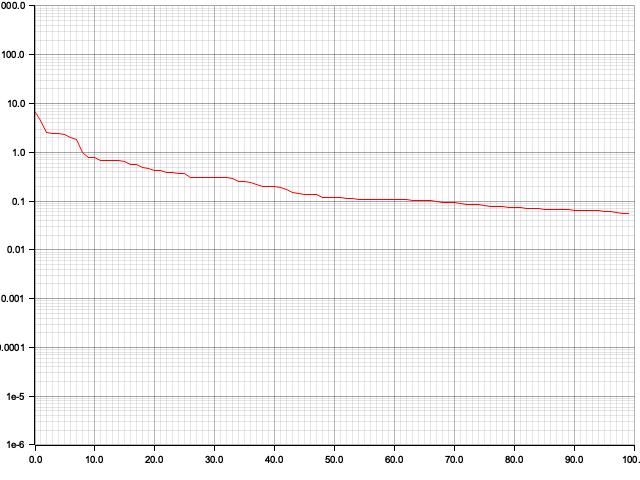
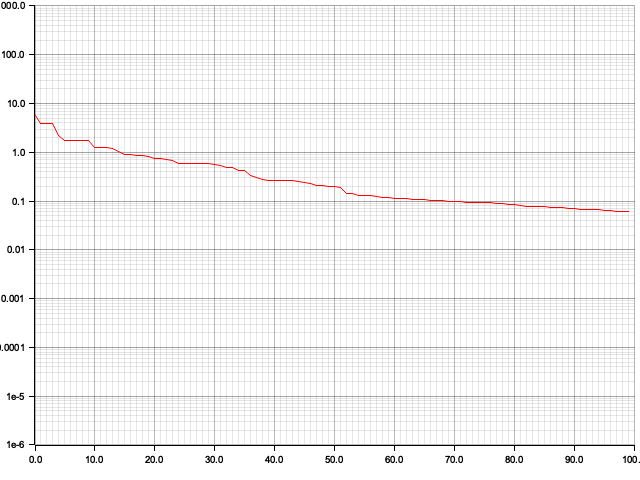
add: OptimizationProblem struct, refactor

diff --git a/src/pso.rs b/src/pso.rs
@@ -1,28 +1,30 @@
 use crate::particle;
 use crate::utils;
 
+use crate::function;
+use function::OptimizationProblem;
 use indicatif::{ProgressBar, ProgressStyle};
 use nalgebra::DVector;
 use particle::ParticleTrait;
 use std::fmt;
 
-pub struct PSO<T: ParticleTrait> {
-  f: fn(&DVector<f64>) -> f64,
+pub struct PSO<'a, T: ParticleTrait> {
+  problem: &'a OptimizationProblem,
   particles: Vec<T>,
   global_best_pos: Option<DVector<f64>>,
   data: Vec<f64>,
 }
 
-impl<T: ParticleTrait> PSO<T> {
-  pub fn new(f: fn(&DVector<f64>) -> f64, dimensions: usize, number_of_particles: usize) -> PSO<T> {
+impl<T: ParticleTrait> PSO<'_, T> {
+  pub fn new(problem: &OptimizationProblem, dimensions: usize, number_of_particles: usize) -> PSO<T> {
     let mut particles: Vec<T> = Vec::new();
 
     for _ in 0..number_of_particles {
-      particles.push(ParticleTrait::new(&f, dimensions));
+      particles.push(ParticleTrait::new(&problem, dimensions));
     }
 
     let mut pso = PSO {
-      f,
+      problem,
       particles,
       global_best_pos: None,
       data: Vec::new(),
@@ -42,11 +44,11 @@ impl<T: ParticleTrait> PSO<T> {
 
   pub fn init(&mut self, dimensions: usize) {
     for particle in &mut self.particles {
-      particle.init(&self.f, dimensions);
+      particle.init(&self.problem, dimensions);
     }
 
     for particle in &self.particles {
-      if self.global_best_pos.is_none() || (self.f)(&particle.pos()) < (self.f)(&self.global_best_pos()) {
+      if self.global_best_pos.is_none() || self.problem.f(&particle.pos()) < self.problem.f(&self.global_best_pos()) {
         self.global_best_pos = Some(particle.pos().clone());
       }
     }
@@ -67,8 +69,8 @@ impl<T: ParticleTrait> PSO<T> {
       let mut new_global_best_pos = self.global_best_pos().clone();
       for particle in &mut self.particles {
         particle.update_vel(&global_best_pos);
-        if particle.update_pos(&self.f) {
-          if (self.f)(&particle.best_pos()) < (self.f)(&new_global_best_pos) {
+        if particle.update_pos(&self.problem) {
+          if self.problem.f(&particle.best_pos()) < self.problem.f(&new_global_best_pos) {
             new_global_best_pos = particle.best_pos().clone();
           }
         }
@@ -76,7 +78,7 @@ impl<T: ParticleTrait> PSO<T> {
       self.global_best_pos = Some(new_global_best_pos);
 
       // Save the data for current iteration.
-      self.data.push((self.f)(&self.global_best_pos()));
+      self.data.push(self.problem.f(&self.global_best_pos()));
 
       // Increment the progress bar.
       progress.inc(1);
@@ -89,7 +91,7 @@ impl<T: ParticleTrait> PSO<T> {
 
 // A util formatter that returns a formatted string that prints out
 // current information about all of the particles.
-impl<T: ParticleTrait + std::fmt::Display> fmt::Display for PSO<T> {
+impl<T: ParticleTrait + std::fmt::Display> fmt::Display for PSO<'_, T> {
   fn fmt(&self, f: &mut fmt::Formatter<'_>) -> fmt::Result {
     let mut result = String::new();
     for (i, particle) in self.particles.iter().enumerate() {
@@ -98,7 +100,7 @@ impl<T: ParticleTrait + std::fmt::Display> fmt::Display for PSO<T> {
     result.push_str(&format!(
       "global best pos: [{}] ({:.3})",
       utils::format_dvector(&self.global_best_pos()),
-      (self.f)(&self.global_best_pos()),
+      self.problem.f(&self.global_best_pos()),
       // self.global_best_pos_eval,
     ));
     write!(f, "{}", result)

diff --git a/src/particle.rs b/src/particle.rs
@@ -1,5 +1,7 @@
 extern crate nalgebra as na;
 
+use crate::function;
+use function::OptimizationProblem;
 use nalgebra::DVector;
 use std::fmt;
 
@@ -7,26 +9,26 @@ use crate::rand::Rng;
 use crate::utils;
 
 pub trait ParticleTrait {
-  fn new(f: &fn(&DVector<f64>) -> f64, dimensions: usize) -> Self
+  fn new(problem: &OptimizationProblem, dimensions: usize) -> Self
   where
     Self: Sized;
 
-  fn init(&mut self, f: &fn(&DVector<f64>) -> f64, dimensions: usize) {
-    let pos = utils::random_init_pos(dimensions);
-    self.new_pos(pos, f);
-    self.set_vel(utils::random_init_vel(dimensions));
+  fn init(&mut self, problem: &OptimizationProblem, dimensions: usize) {
+    let pos = utils::random_init_pos(dimensions, problem);
+    self.new_pos(pos, problem);
+    self.set_vel(utils::random_init_vel(dimensions, problem));
   }
 
   fn pos(&self) -> &DVector<f64>;
   fn set_pos(&mut self, pos: DVector<f64>);
-  fn new_pos(&mut self, pos: DVector<f64>, f: &fn(&DVector<f64>) -> f64) -> bool {
+  fn new_pos(&mut self, pos: DVector<f64>, problem: &OptimizationProblem) -> bool {
     self.set_pos(pos);
-    self.eval(f)
+    self.eval(problem)
   }
 
-  fn update_pos(&mut self, f: &fn(&DVector<f64>) -> f64) -> bool {
+  fn update_pos(&mut self, problem: &OptimizationProblem) -> bool {
     // This function returns whether the personal best was updated.
-    self.new_pos(self.pos() + self.vel(), f)
+    self.new_pos(self.pos() + self.vel(), problem)
   }
 
   fn best_pos(&self) -> DVector<f64>;
@@ -48,9 +50,9 @@ pub trait ParticleTrait {
     );
   }
 
-  fn eval(&mut self, f: &fn(&DVector<f64>) -> f64) -> bool {
+  fn eval(&mut self, problem: &OptimizationProblem) -> bool {
     // This function returns whether the personal best was updated.
-    if self.option_best_pos().is_none() || f(&self.pos()) < f(&self.best_pos()) {
+    if self.option_best_pos().is_none() || problem.f(&self.pos()) < problem.f(&self.best_pos()) {
       self.set_best_pos(self.pos().clone());
       return true;
     }

diff --git a/src/main.rs b/src/main.rs
@@ -1,10 +1,10 @@
 extern crate nalgebra as na;
 extern crate rand;
 
-use nalgebra::DVector;
 use std::path::Path;
 mod awparticle;
 mod defaultparticle;
+mod function;
 mod grapher;
 mod particle;
 mod pso;
@@ -12,22 +12,26 @@ mod utils;
 
 use awparticle::AWParticle;
 use defaultparticle::DefaultParticle;
+use function::OptimizationProblem;
 use pso::PSO;
 
 fn main() {
+  // Experimental Settings
+  let f1 = OptimizationProblem::new(|x| x.iter().map(|&x| x * x).sum(), (-1., 1.));
+
   let dimensions = 30;
   let particle_count = 100;
-  fn f(x: &DVector<f64>) -> f64 {
-    x.iter().map(|&x| x * x).sum()
-  }
+  let iterations = 100;
 
-  let mut pso: PSO<DefaultParticle> = pso::PSO::new(f, dimensions, particle_count);
-  pso.run(100);
-  println!("PSO: {}", f(&pso.global_best_pos()));
-  let _ = grapher::generate_progress_graph(Path::new("graphs/pso.png"), pso.data());
+  // SPSO
+  let mut pso: PSO<DefaultParticle> = pso::PSO::new(&f1, dimensions, particle_count);
+  pso.run(iterations);
+  println!("PSO: {}", f1.f(&pso.global_best_pos()));
+  let _ = grapher::progress_graph(Path::new("graphs/pso.png"), pso.data());
 
-  let mut awpso: PSO<AWParticle> = pso::PSO::new(f, dimensions, particle_count);
-  awpso.run(100);
-  println!("AWPSO: {}", f(&awpso.global_best_pos()));
-  let _ = grapher::generate_progress_graph(Path::new("graphs/awpso.png"), awpso.data());
+  // AWPSO
+  let mut awpso: PSO<AWParticle> = pso::PSO::new(&f1, dimensions, particle_count);
+  awpso.run(iterations);
+  println!("AWPSO: {}", f1.f(&awpso.global_best_pos()));
+  let _ = grapher::progress_graph(Path::new("graphs/awpso.png"), awpso.data());
 }

diff --git a/src/utils.rs b/src/utils.rs
@@ -1,3 +1,5 @@
+use crate::function;
+use function::OptimizationProblem;
 use nalgebra::DVector;
 use rand::distributions::{Distribution, Uniform};
 
@@ -10,16 +12,16 @@ pub fn uniform_distribution(low: &DVector<f64>, high: &DVector<f64>) -> DVector<
 }
 
 // TODO: There must be a better place to put this.
-pub fn random_init_pos(dimensions: usize) -> DVector<f64> {
-  let b_lo: DVector<f64> = DVector::from_element(dimensions, -1.0);
-  let b_up: DVector<f64> = DVector::from_element(dimensions, 1.0);
+pub fn random_init_pos(dimensions: usize, problem: &OptimizationProblem) -> DVector<f64> {
+  let b_lo: DVector<f64> = DVector::from_element(dimensions, problem.domain().0);
+  let b_up: DVector<f64> = DVector::from_element(dimensions, problem.domain().1);
   uniform_distribution(&b_lo, &b_up)
 }
 
 // TODO: There must be a better place to put this.
-pub fn random_init_vel(dimensions: usize) -> DVector<f64> {
-  let b_lo: DVector<f64> = DVector::from_element(dimensions, -1.0);
-  let b_up: DVector<f64> = DVector::from_element(dimensions, 1.0);
+pub fn random_init_vel(dimensions: usize, problem: &OptimizationProblem) -> DVector<f64> {
+  let b_lo: DVector<f64> = DVector::from_element(dimensions, problem.domain().0);
+  let b_up: DVector<f64> = DVector::from_element(dimensions, problem.domain().1);
 
   uniform_distribution(
     &DVector::from_iterator(dimensions, (&b_up - &b_lo).iter().map(|b| -b.abs())),

diff --git a/src/defaultparticle.rs b/src/defaultparticle.rs
@@ -2,6 +2,8 @@ extern crate nalgebra as na;
 
 use crate::particle;
 
+use crate::function;
+use function::OptimizationProblem;
 use nalgebra::DVector;
 use particle::ParticleTrait;
 
@@ -12,13 +14,13 @@ pub struct DefaultParticle {
 }
 
 impl ParticleTrait for DefaultParticle {
-  fn new(f: &fn(&DVector<f64>) -> f64, dimensions: usize) -> DefaultParticle {
+  fn new(problem: &OptimizationProblem, dimensions: usize) -> DefaultParticle {
     let mut particle = DefaultParticle {
       pos: DVector::from_element(dimensions, 0.),
       vel: DVector::from_element(dimensions, 0.),
       best_pos: None,
     };
-    particle.init(f, dimensions);
+    particle.init(problem, dimensions);
     particle
   }
 

diff --git a/src/awparticle.rs b/src/awparticle.rs
@@ -1,7 +1,8 @@
 extern crate nalgebra as na;
 
+use crate::function;
 use crate::particle;
-
+use function::OptimizationProblem;
 use nalgebra::DVector;
 use particle::ParticleTrait;
 
@@ -22,13 +23,13 @@ fn sigmoid(x: f64, m: f64) -> f64 {
 }
 
 impl ParticleTrait for AWParticle {
-  fn new(f: &fn(&DVector<f64>) -> f64, dimensions: usize) -> AWParticle {
+  fn new(problem: &OptimizationProblem, dimensions: usize) -> AWParticle {
     let mut particle = AWParticle {
       pos: DVector::from_element(dimensions, 0.),
       vel: DVector::from_element(dimensions, 0.),
       best_pos: None,
     };
-    particle.init(f, dimensions);
+    particle.init(problem, dimensions);
     particle
   }
 

diff --git a/src/function.rs b/src/function.rs
@@ -1,0 +1,25 @@
+extern crate nalgebra as na;
+
+use nalgebra::DVector;
+
+type OptimizationFunction = fn(&DVector<f64>) -> f64;
+
+#[derive(Clone)]
+pub struct OptimizationProblem {
+  f: OptimizationFunction,
+  domain: (f64, f64),
+}
+
+impl OptimizationProblem {
+  pub fn new(f: OptimizationFunction, domain: (f64, f64)) -> Self {
+    Self { f, domain }
+  }
+
+  pub fn f(&self, x: &DVector<f64>) -> f64 {
+    (self.f)(x)
+  }
+
+  pub fn domain(&self) -> (f64, f64) {
+    self.domain
+  }
+}

diff --git a/src/grapher.rs b/src/grapher.rs
@@ -24,7 +24,7 @@ use std::path::Path;
 //     Ok(())
 // }
 
-pub fn generate_progress_graph(filename: &Path, data: &Vec<f64>) -> Result<(), Box<dyn std::error::Error>> {
+pub fn progress_graph(filename: &Path, data: &Vec<f64>) -> Result<(), Box<dyn std::error::Error>> {
   // Create the root drawing area for the graph.
   let root = BitMapBackend::new(filename, (640, 480)).into_drawing_area();
 
